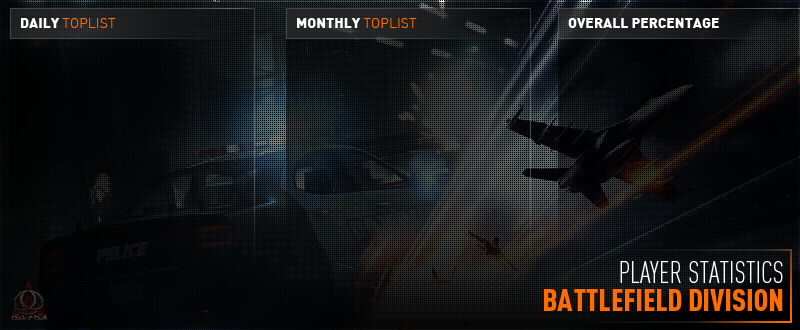
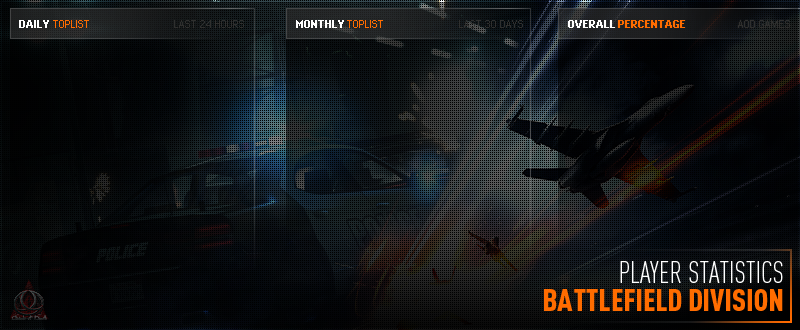
UPDATE STATS

diff --git a/stats/top10.png/index.php b/stats/top10.png/index.php
@@ -4,7 +4,7 @@ header('Content-Type: image/png');
 date_default_timezone_set('America/New_York');
 include("../../application/lib.php");
 
-$im = imagecreatetruecolor(900, 330);
+$im = imagecreatetruecolor(960, 330);
 
 // color
 $white      = imagecolorallocate($im, 255, 255, 255);
@@ -15,7 +15,6 @@ $darkGrey   = imagecolorallocate($im, 50, 50, 50);
 $im         = imagecreatefrompng("../images/big-bg.png");
 
 $text     = "Battlefield Division";
-$datesub  = "AOD games / Total games";
 $dateText = date('d M', strtotime('-30 days')) . " - " . date('d M');
 
 $tinyfont     = "../fonts/copy0855.ttf";
@@ -52,9 +51,7 @@ try {
      */
     
     // date
-    imagettftext($im, 6, 0, 715, 240, $darkGrey, $tinyfont, strtoupper($dateText));
-    imagettftext($im, 6, 0, 612, 100, $darkergrey, $tinyfont, strtoupper($datesub));
-    
+    imagettftext($im, 6, 0, 715, 240, $darkGrey, $tinyfont, strtoupper($dateText));    
     
     // daily stats
     $y = 65;
